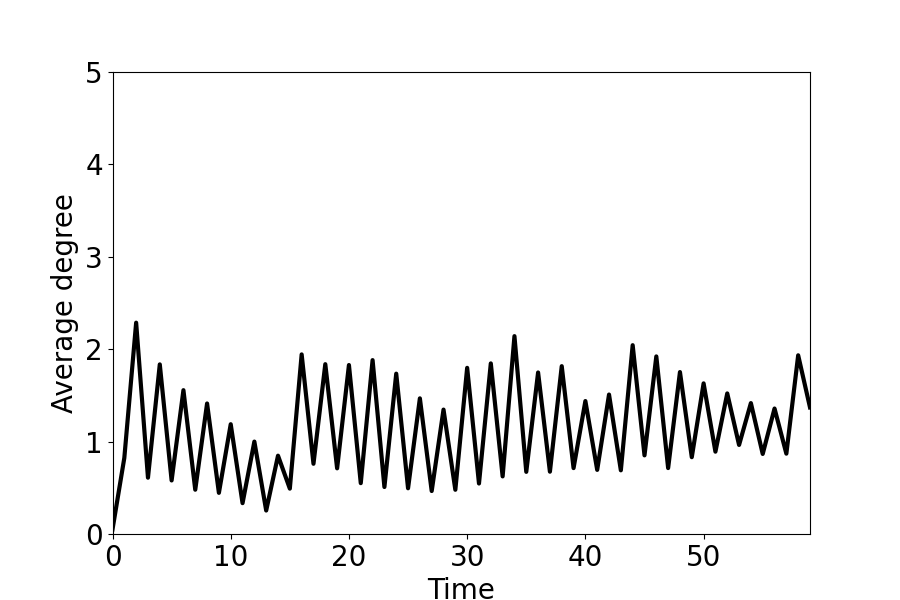
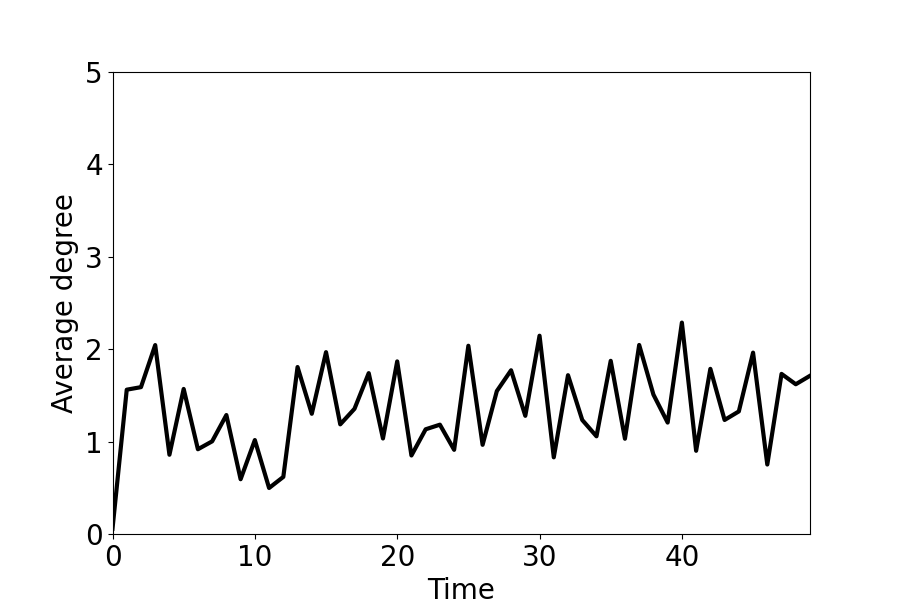
update

diff --git a/examples/test.py b/examples/test.py
@@ -10,7 +10,7 @@ start_time = time.time()
 data_path = '/network/scratch/r/razieh.shirzadkhani/'
 dataset = tgx.data.mooc(root=data_path)
 # dataset = tgx.data.tgb("tgbl-wiki")
-data = tgx.read_edgelist(data=dataset, discretize=True, intervals=35)
+data = tgx.read_edgelist(data=dataset, discretize=True, intervals=50)
 
 # print(get_index_metrics(train_data, test_data))
 # r = get_reoccurrence(data)
@@ -21,7 +21,7 @@ G = tgx.Graph(data)
 plot_path = "./examples/plots/"
 # tgx.nodes_and_edges_per_ts(G.discrite_graph, plot_path=plot_path , network_name=dataset.name)
 total_nodes = G.number_of_nodes()
-tgx.average_degree_per_ts(G.discrite_graph, total_nodes, plot_path=plot_path, network_name=dataset.name+'1')
+tgx.average_degree_per_ts(G.discrite_graph, total_nodes, plot_path=plot_path, network_name=dataset.name+'2')
 
 # total_nodes = G.number_of_nodes()
 # plot_path = "./examples/plots/"

diff --git a/tgx/utils/plotting_utils.py b/tgx/utils/plotting_utils.py
@@ -1,6 +1,7 @@
 import datetime
 import pandas as pd
 import matplotlib.pyplot as plt
+import numpy as np
 
 def create_ts_list(start, end, metric=None, interval=None):
     if metric == "Unix" or metric == "unix" or metric == "UNIX":
@@ -56,7 +57,7 @@ def plot_for_snapshots(data,  filename, y_title, plot_path = None,):
     plot
     '''
     ts = list(range(0, len(data)))
-
+    # plt.rcParams["font.family"] = "Times New Roman"
     fig = plt.figure(facecolor='w', figsize=(9,6))
     ax = fig.add_subplot(111)
     ax.plot(ts, data, color='black', lw=3)
